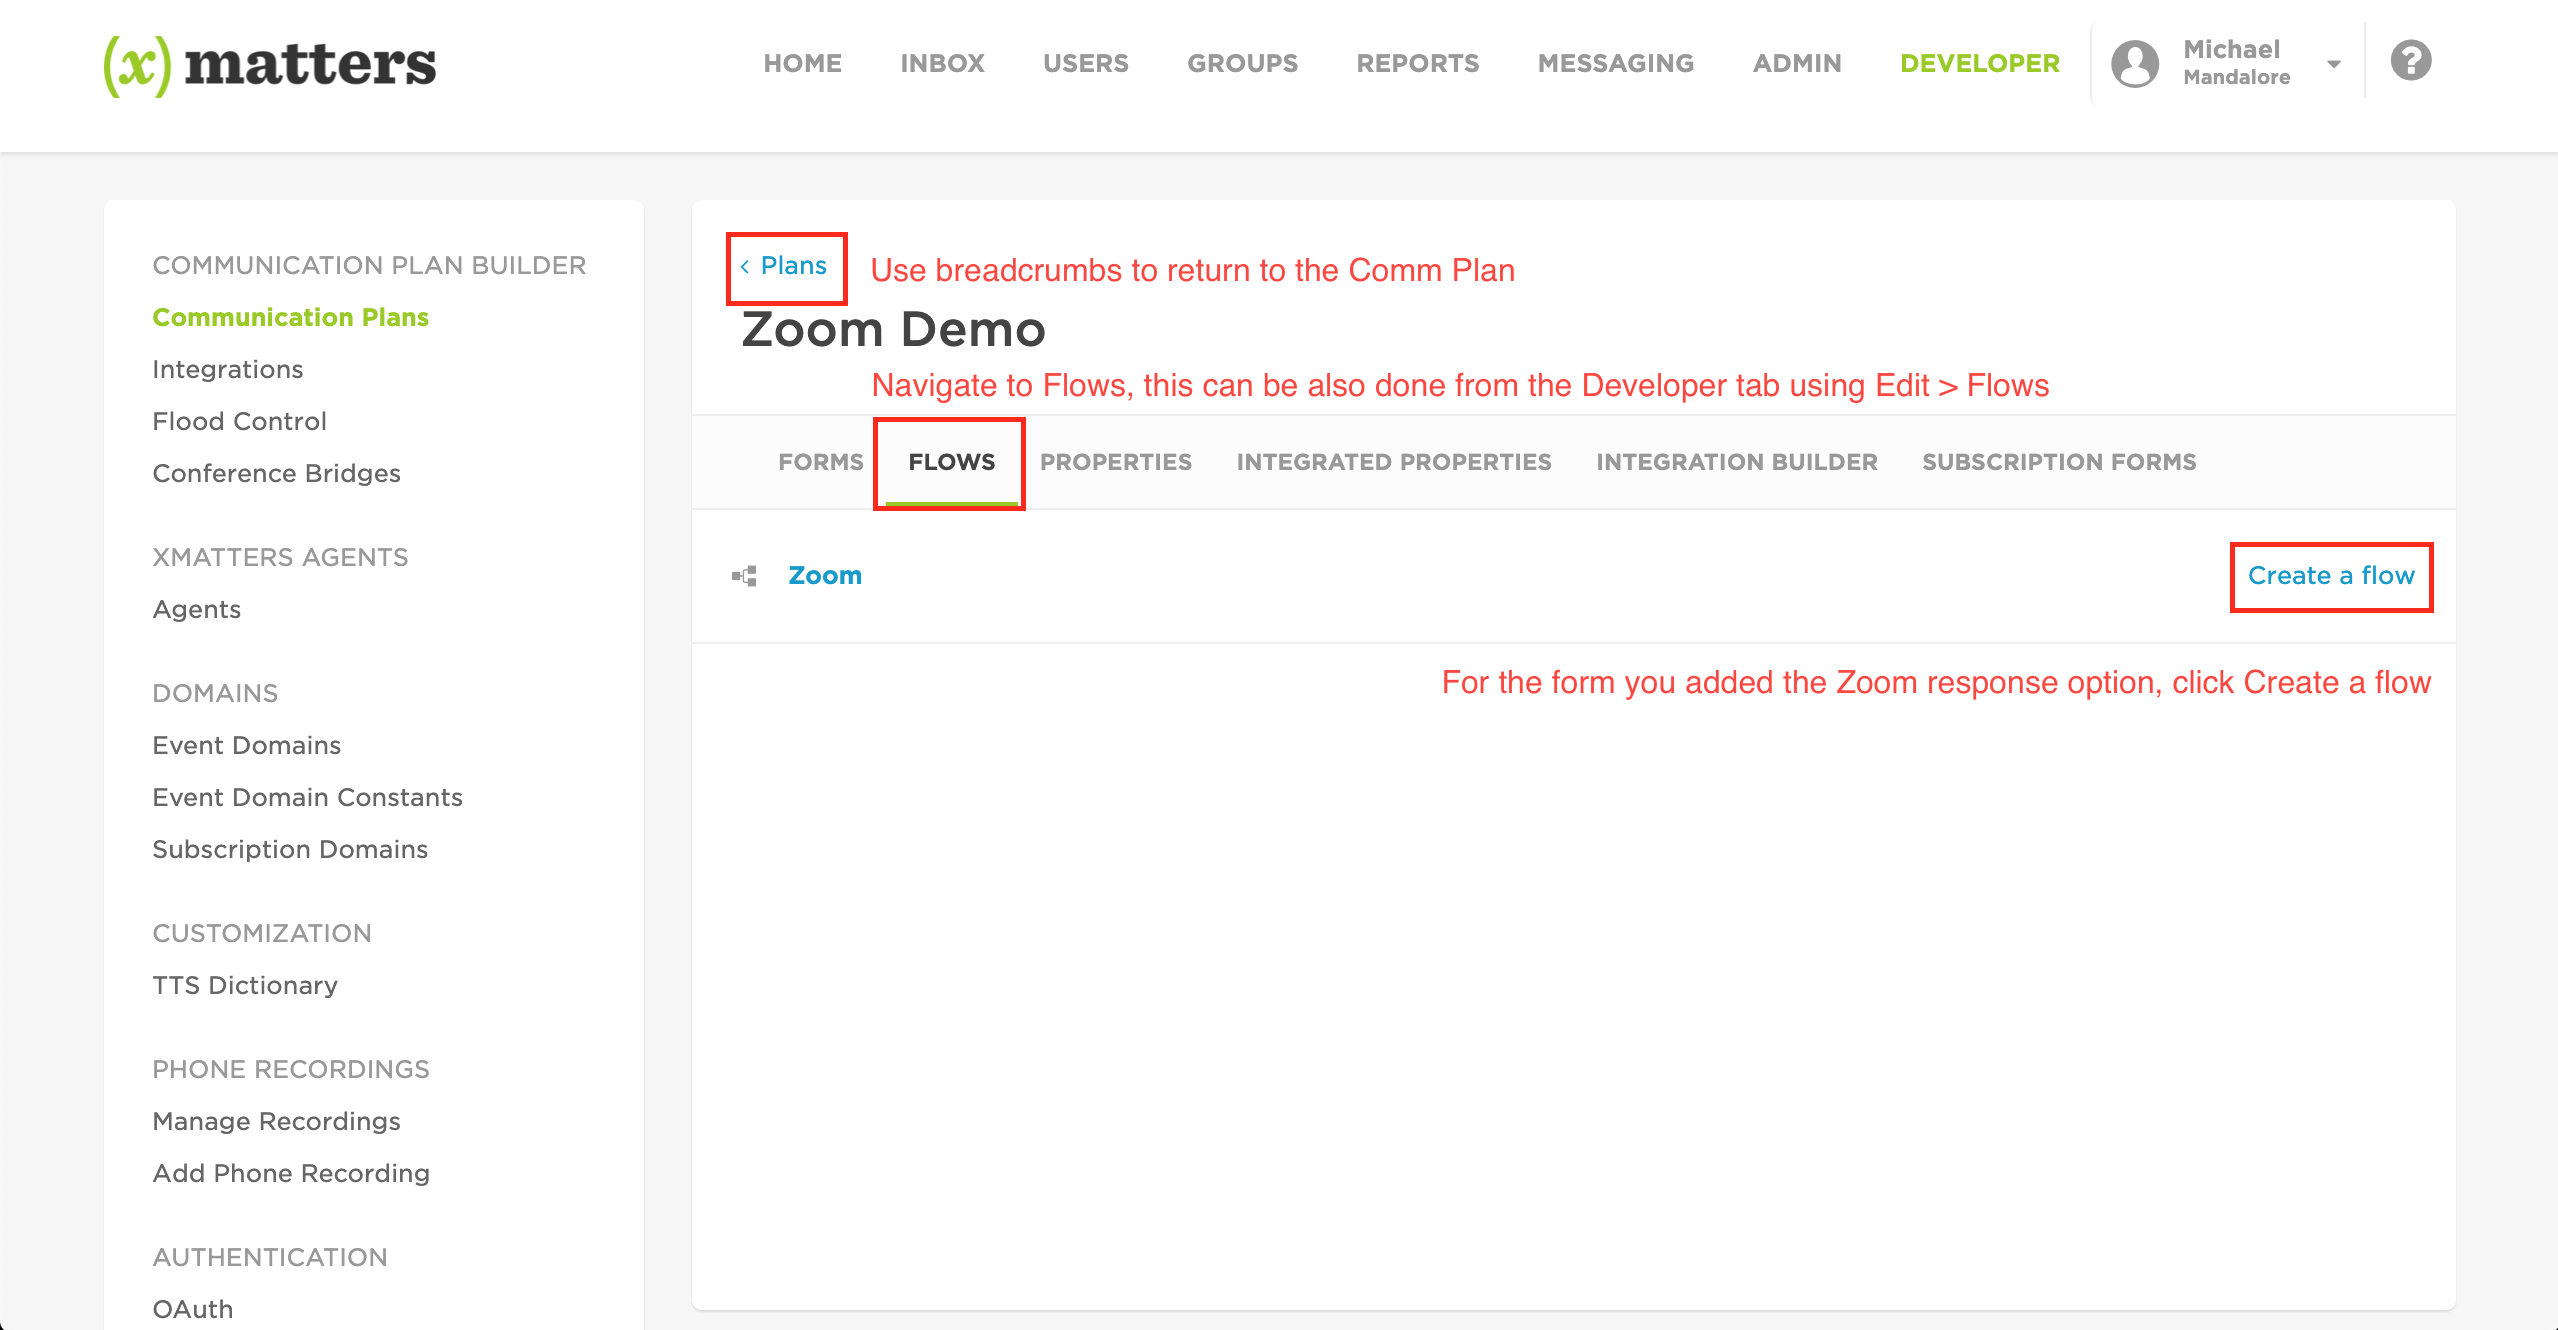
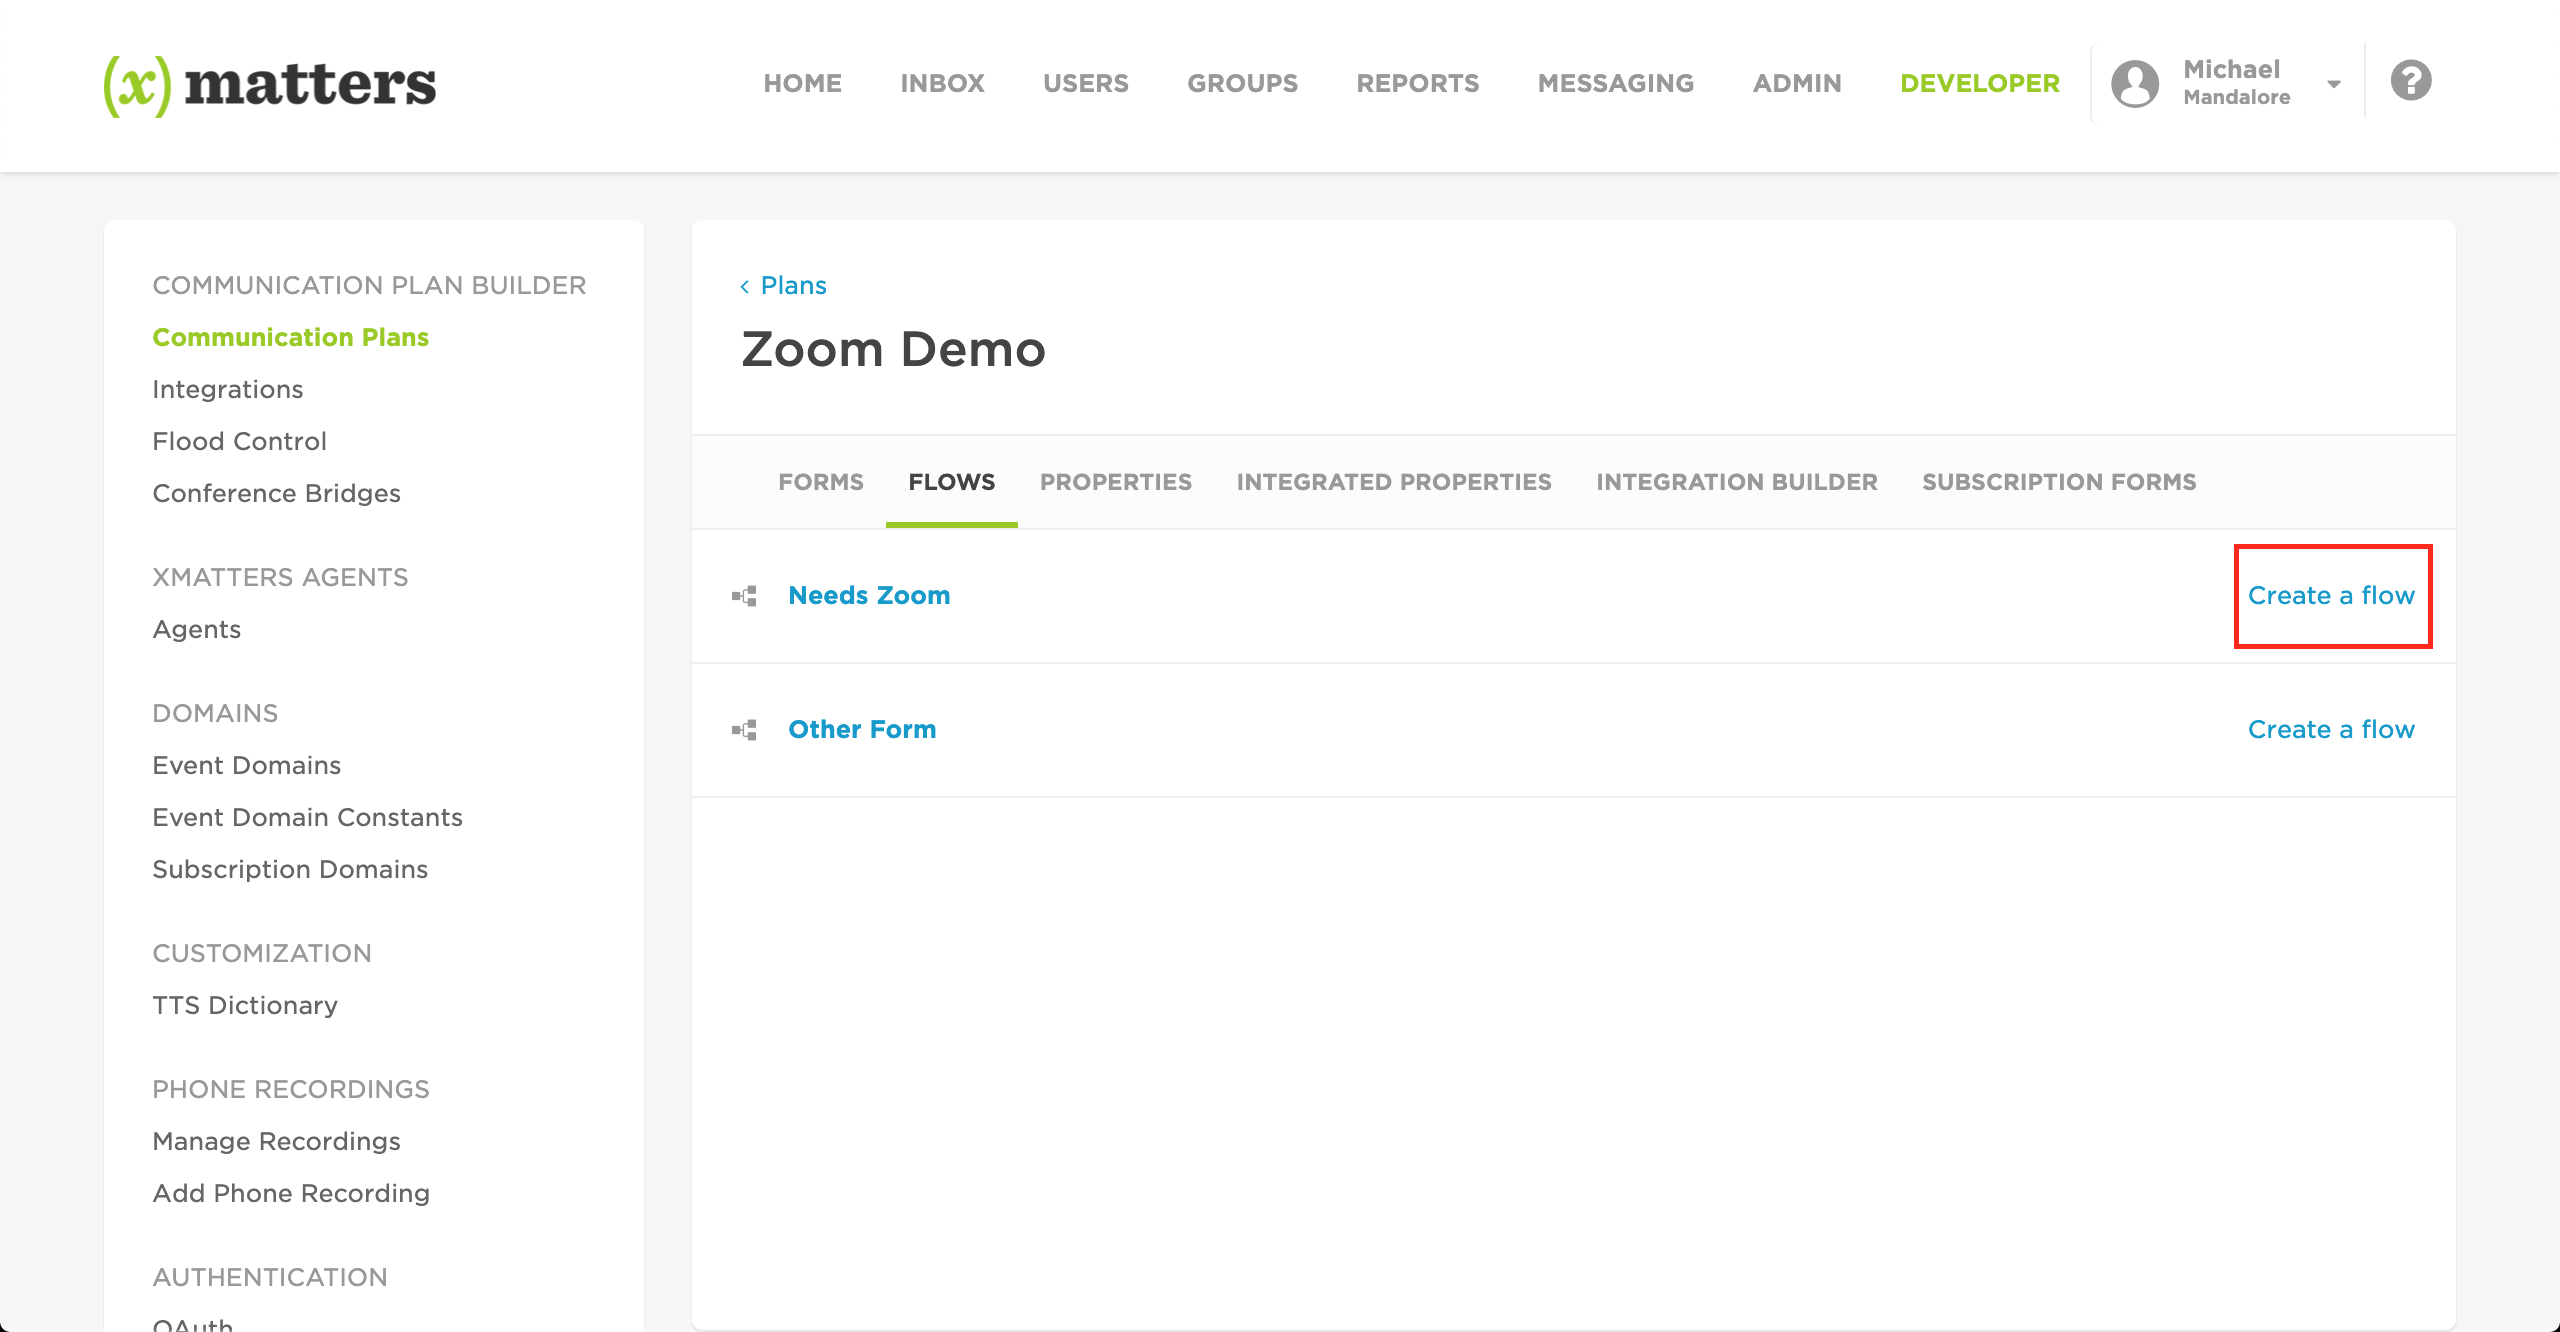
Changed editing to be all inside flow designer

diff --git a/README.md b/README.md
@@ -47,26 +47,21 @@ In order to create a Zoom meeting, you need to have an account-level marketplace
 
 ## Adding Zoom to xMatters
 1. Inside your xMatters instance, navigate to the Developer tab
-2. Locate the Communication Plan you would like to add Zoom options to, then click **Edit** > **Integration Builder**
+2. Locate the Communication Plan you would like to add Zoom options to, then click **Edit** > **Forms**
 ![xm-plan](./media/xm-plan.png)
-3. In the Integration Builder, click on **Edit Endpoints**
-![edit-endpoints](./media/edit-endpoints.png)
-4. Click on **Add Endpoint**, name it `Zoom`, set the Base URL to `https://api.zoom.us/v2`, then click **Save Changes** and **Close**
-![add-endpoint](./media/add-endpoint.png)
-5. Click on the **Forms** tab
-![forms-tab](./media/forms-tab.png)
-6. For the Form you would like to add Zoom options to, click on **Edit** > **Responses**
-![zoom-form](./media/zoom-form.png)
-7. Add a response option to create a meeting in Zoom, then click **Save Changes**
-![add-response](./media/add-response.png)
-8. Use the breadcrumbs to return to the Communication Plan, then click **Flows**
-9. For the form you just created the Zoom response option in, click **Create a flow**
+3. For the Form you would like to add Zoom options to, click on **Create Flow**
 ![create-flow](./media/create-flow.png)
-10. Click and drag **Responses** into the flow, then click **Save**
+4. Click and drag **Responses** into the flow, then click **Save**
 ![drag-responses](./media/drag-responses.png)
-11. On the righthand side, click on the **Custom** tab, then click **+ Create a custom action**
+5. Create a new Response by clicking **Add Response**
+![add-response](./media/add-response.png)
+6. Click Create Response to add a new response
+![create-response](./media/create-response.png)
+7. Fill in a new Response that describe a step to create a Zoom meeting, then click **Save**
+![fill-response](./media/fill-response.png)
+8. On the righthand side, click on the **Custom** tab, then click **+ Create a custom action**
 ![create-action](./media/create-action.png)
-12. In the settings tab, fill out the info as follows, then click **Save**:
+9. In the settings tab, fill out the info as follows, then click **Save**:
 
 | Option                     | Value                                   |
 | ---------------------- | ------------------------------- |
@@ -76,7 +71,7 @@ In order to create a Zoom meeting, you need to have an account-level marketplace
 | Endpoint Type        | Allow Any                             |
 | Endpoint Label       | Zoom                                   |
 
-13. In the inputs tab, add these five inputs, then click **Save**:
+10. In the inputs tab, add these six inputs, then click **Save**:
 
 | Name | Required Field | Minimum Length | Maximum Length | Help Text | Default Value | Multiline |
 | ------- | ---------------- | -------------------- | -------------------- | ----------- | --------------- | --------- |
@@ -86,9 +81,10 @@ In order to create a Zoom meeting, you need to have an account-level marketplace
 | agenda |  | 0 | 2000 | Meeting description |  |  |
 | password |  | 0 | 10 | Password to join the meeting. May only contain [a-z A-Z 0-9 @ - _ *]. Max of 10 characters | You can choose to put a default password here or leave it blank |  |
 | enforce_login |  | 0 | 2000 | Whether or not user are required to be signed in to their Zoom account to join the meeting (Can be either True or False) | False |  | 
-14. In the outputs tab, add two outputs, one named **Join URL**, and one named **Start URL**, then click **Save**
-15. In the script tab, paste in [this](./script.js) script, then click **Save**
-16. Now you've made your custom action, which you can reuse as much as you want, changing the `schedule_for` input to change who is the host, and using it for as many `topic`s as you would like (Note the `JWT Token` generally will not change)
+
+11. In the outputs tab, add two outputs, one named **Join URL**, and one named **Start URL**, then click **Save**
+12. In the script tab, paste in [this](./script.js) script, then click **Save**
+13. Now you've made your custom action, which you can reuse as much as you want, changing the `schedule_for` input to change who is the host, and using it for as many `topic`s as you would like (Note the `JWT Token` generally will not change)
 
 
 ## Adding the step to a flow
@@ -103,6 +99,13 @@ In order to create a Zoom meeting, you need to have an account-level marketplace
 | --- | --- | --- | --- | --- | --- |
 | [Long JWT Token you copy from Zoom] | example@email.com | meeting topic | meeting description | zoomzoom | False |
 
-5. In the **Endpoint** tab, open the dropdown and select the **Zoom** Endpoint
-6. Click OK to save the custom step, then click **Save** to save the flow
-7. **TODO** Add another step that sends an email back to the user with the Join URL and Start URL 
+5. In the **Endpoint** tab, click **Create New Endpoint**
+![create-endpoint](./media/create-endpoint.png)
+6. Fill in the endpoint with the following values, then click **Save Changes**
+
+| Name | Base URL | Trust self-signed certficiates | Authentication Type |
+| --- | --- | --- | --- |
+| Zoom | https://api.zoom.us/v2 | | None |
+
+7. Close out of the endpoint editor, then click OK to save the custom step, then click **Save** to save the flow
+8. **TODO** Add another step that sends an email/message back to the user with the Join URL and Start URL 
